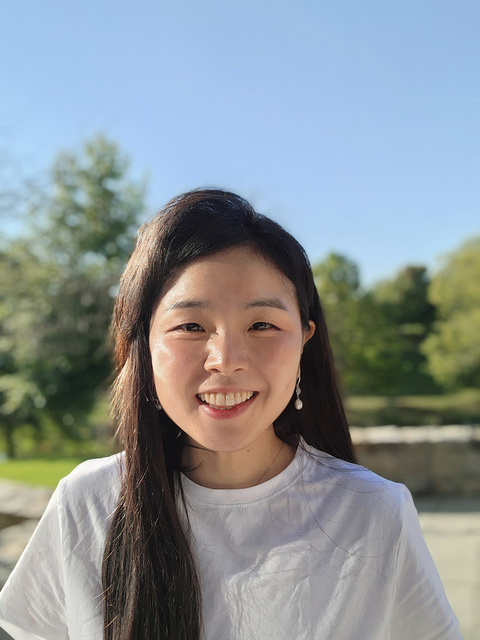
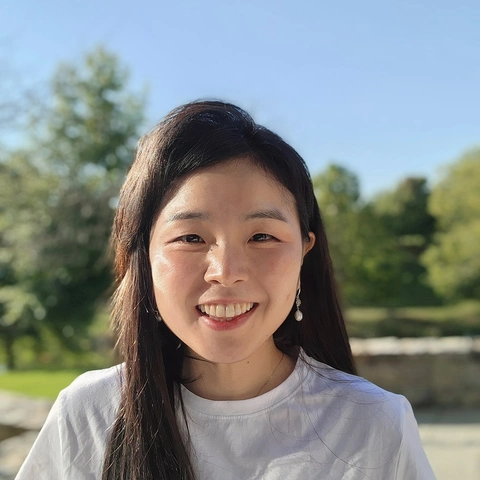
Deploying to gh-pages from @ SAIL-Virginia-Tech-CS/sail-virginia-tech-cs.github.io@431394d8b5e354fc1d1c671a4196ad1104413211 🚀

diff --git a/index.html b/index.html
@@ -178,7 +178,7 @@
         
         <div class="rho-profile-header">
     <div class="rho-profile-img">
-        <img src="/assets/images/team/headshot_oct2024.jpg" alt="Eugenia Rho Professional Headshot">
+        <img src="/assets/images/team/headshot_oct2024_crop.jpg" alt="Eugenia Rho Professional Headshot">
         <p>Gilbert Place, 220 Gilbert Street, Blacksburg, VA, 24060</p>
         <div class="social">
     <div class="social-btns">
